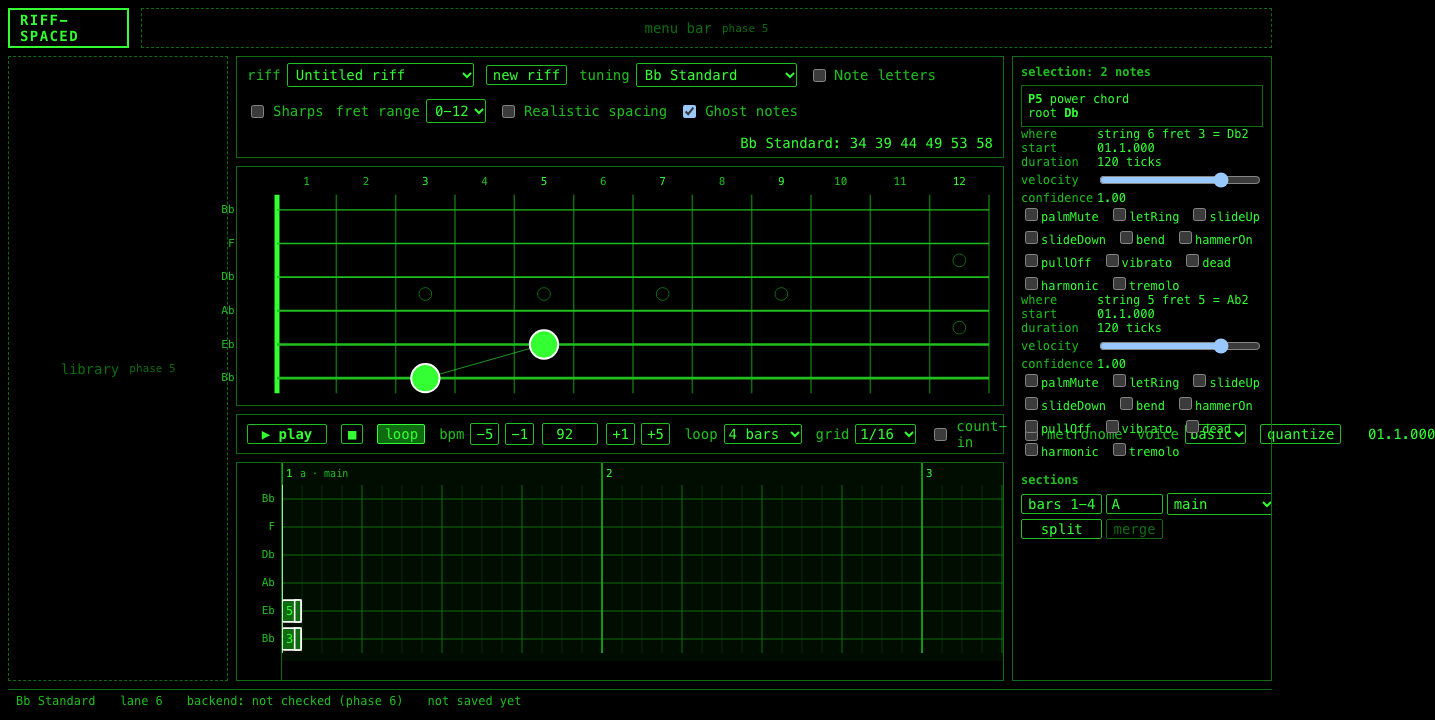
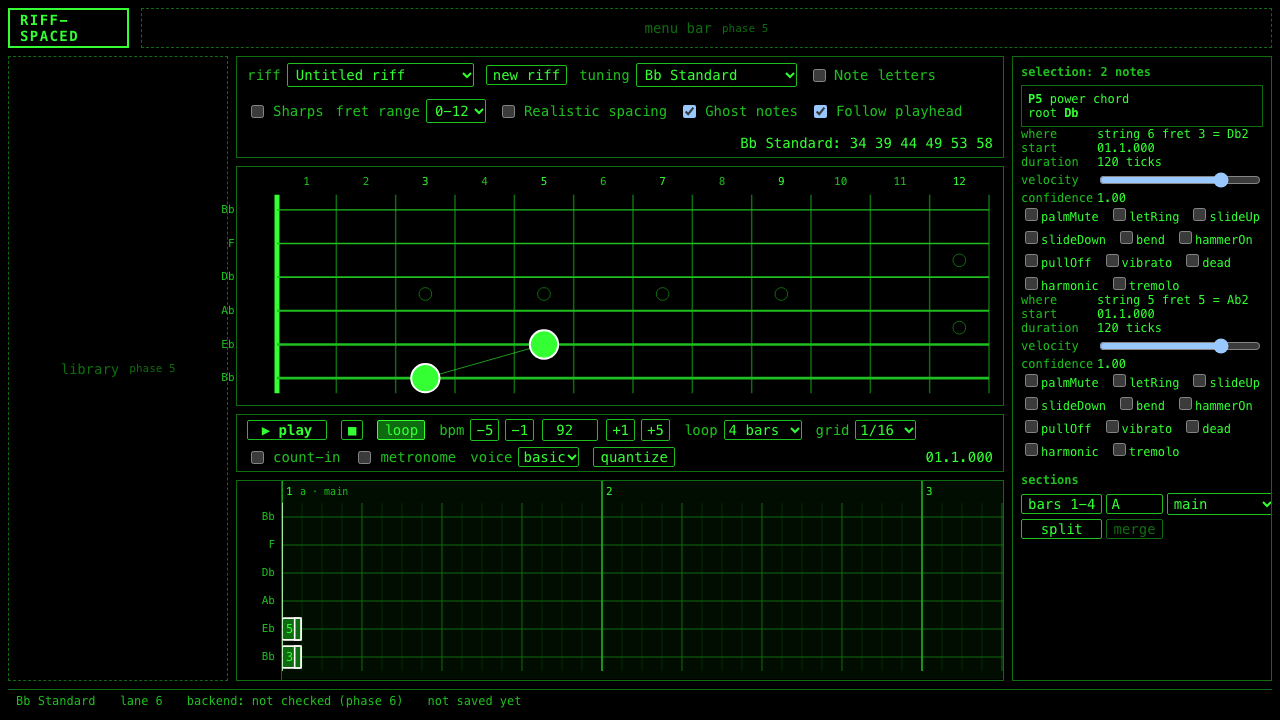
feat(playback): sync fretboard highlighting and tab playhead to the audio clock
WHY: Hearing a riff is half of it; seeing which dot is sounding, in time, is how the owner reads his own playing. The visuals must follow the audio clock, not a timer, or they drift.

WHAT:
- Shell: while playing the fretboard shows the notes sounding at the playback position (ghosts for the rest of the bar), and returns to the edit cursor on stop; the engine's highlightIds flash the sounding dots and their chord connectors
- tab/playheadRef.ts: follow mode keeps the playhead inside the middle 60 percent of the scrolling lanes; TabLanes registers its scroller and follows only while playing so editing never fights the user's scroll; View toggle "Follow playhead" (default on) in the dev toolbar
- Status bar: `sync ±N ms`, the max gap between scheduled audio time and the frame that drew it over the last second; dev builds log when it exceeds 25 ms
- Transport wraps instead of overflowing its column
- hooks/keyboard.ts: checkboxes, buttons, ranges and selects are no longer "typing targets", so Space on a focused checkbox still plays (text-like inputs still swallow shortcuts)
- main.tsx exposes window.riffspaced (store and audio state) for the e2e suite
- e2e/playback.spec.ts: play, AudioContext.state is running, a sounding dot and tab note appear, the playhead x advances, the readout moves, screenshot docs/screenshots/phase-04/playing.png; stop resets playhead and readout; count-in shows in the readout; BPM change during playback leaves the console clean
[…]

diff --git a/frontend/src/app/Shell.tsx b/frontend/src/app/Shell.tsx
@@ -37,16 +37,22 @@ export function Shell() {
   const removeNotes = useStore((s) => s.removeNotes);
   const lastSavedAt = useStore((s) => s.lastSavedAt);
   const storageWarning = useStore((s) => s.storageWarning);
+  const isPlaying = useStore((s) => s.isPlaying);
+  const positionTick = useStore((s) => s.positionTick);
+  const syncJitterMs = useStore((s) => s.syncJitterMs);
   useKeyboard();
 
-  // The fretboard shows what sounds at the edit cursor, with the rest of the bar as ghosts.
+  // While editing the fretboard shows what sounds at the edit cursor (rest of the bar as
+  // ghosts); while playing it follows the playback position and the engine flashes the
+  // sounding notes through highlightIds.
+  const viewTick = isPlaying ? positionTick : editCursorTick;
   const { shown, dimmedIds } = useMemo(() => {
-    const atCursor = notesSoundingAt(riff, editCursorTick);
-    if (!ghostNotes) return { shown: atCursor, dimmedIds: [] as string[] };
-    const ids = new Set(atCursor.map((n) => n.id));
-    const ghosts = notesInBarOf(riff, editCursorTick).filter((n) => !ids.has(n.id));
-    return { shown: [...atCursor, ...ghosts], dimmedIds: ghosts.map((n) => n.id) };
-  }, [riff, editCursorTick, ghostNotes]);
+    const atTick = notesSoundingAt(riff, viewTick);
+    if (!ghostNotes) return { shown: atTick, dimmedIds: [] as string[] };
+    const ids = new Set(atTick.map((n) => n.id));
+    const ghosts = notesInBarOf(riff, viewTick).filter((n) => !ids.has(n.id));
+    return { shown: [...atTick, ...ghosts], dimmedIds: ghosts.map((n) => n.id) };
+  }, [riff, viewTick, ghostNotes]);
 
   return (
     <div className="shell" data-testid="shell">
@@ -99,6 +105,14 @@ export function Shell() {
       <footer className="shell__status" data-testid="status-bar">
         <span>{riff.tuning.name}</span>
         <span data-testid="status-lane">lane {activeLane}</span>
+        {syncJitterMs !== null ? (
+          <span
+            data-testid="status-sync"
+            title="max gap between scheduled audio time and the frame that drew it, last second"
+          >
+            sync ±{syncJitterMs} ms
+          </span>
+        ) : null}
         {pendingFret !== null ? (
           <span data-testid="status-pending">fret: {pendingFret}_</span>
         ) : null}

diff --git a/frontend/e2e/playback.spec.ts b/frontend/e2e/playback.spec.ts
@@ -1,0 +1,44 @@
+import { expect, test } from '@playwright/test';
+import { screenshotPath, watchConsole } from './helpers';
+
+test('play flashes the fretboard, moves the playhead, and stop resets it', async ({ page }) => {
+  const console = watchConsole(page);
+  await page.goto('/');
+  await page.getByLabel('riff').selectOption({ label: 'Walkdown Turnaround' });
+  const playhead = page.getByTestId('playhead');
+  const startX = Number(await playhead.getAttribute('x1'));
+
+  await page.getByRole('button', { name: 'play' }).click();
+  await page.waitForTimeout(600);
+  await expect(page.getByRole('button', { name: 'stop', exact: true })).toBeVisible();
+  const audioState = await page.evaluate(() => window.riffspaced?.audioState());
+  expect(audioState).toBe('running');
+  await expect(page.locator('.fb-note--sounding').first()).toBeVisible();
+  await expect(page.locator('.tab-note--sounding').first()).toBeVisible();
+  const movedX = Number(await playhead.getAttribute('x1'));
+  expect(movedX).toBeGreaterThan(startX);
+  await expect(page.getByTestId('position')).not.toHaveText('01.1.000');
+  await page.screenshot({ path: screenshotPath('phase-04', 'playing'), fullPage: true });
+
+  await page.keyboard.press('Space');
+  await expect(page.getByRole('button', { name: 'play' })).toBeVisible();
+  await expect(page.locator('.fb-note--sounding')).toHaveCount(0);
+  expect(Number(await playhead.getAttribute('x1'))).toBe(startX);
+  await expect(page.getByTestId('position')).toHaveText('01.1.000');
+
+  // Count-in shows in the readout before the loop starts.
+  await page.getByLabel('count-in').check();
+  await page.getByLabel('metronome').check();
+  await page.keyboard.press('Space');
+  await expect(page.getByTestId('position')).toHaveText('count-in');
+  await page.keyboard.press('Space');
+
+  // Tempo changes during playback do not throw.
+  await page.keyboard.press('Space');
+  await page.getByRole('spinbutton', { name: 'bpm' }).fill('140');
+  await page.waitForTimeout(300);
+  await expect(page.getByTestId('status-sync')).toContainText('sync');
+  await page.keyboard.press('Space');
+
+  expect(console.errors).toEqual([]);
+});

diff --git a/frontend/src/tab/TabLanes.tsx b/frontend/src/tab/TabLanes.tsx
@@ -10,6 +10,7 @@ import { Playhead } from './Playhead';
 import { Ruler } from './Ruler';
 import { TabNote } from './TabNote';
 import { GUTTER_WIDTH, LANE_HEIGHT, laneY, tabHeight, tabWidth, tickToX } from './geometry';
+import { playhead } from './playheadRef';
 import { useTabPointer } from './useTabPointer';
 import './tab.css';
 
@@ -30,6 +31,8 @@ export function TabLanes() {
   const select = useStore((s) => s.select);
   const removeNotes = useStore((s) => s.removeNotes);
   const pointer = useTabPointer();
+  const followPlayhead = useStore((s) => s.followPlayhead);
+  const isPlaying = useStore((s) => s.isPlaying);
 
   const stringCount = riff.tuning.pitches.length;
   const height = tabHeight(stringCount);
@@ -40,6 +43,14 @@ export function TabLanes() {
   // Ctrl/Cmd + wheel zooms, plain wheel scrolls horizontally. A native listener is needed
   // because React's onWheel is passive and cannot preventDefault the browser zoom.
   const scrollRef = useRef<HTMLDivElement>(null);
+  useEffect(() => {
+    playhead.setScroller(scrollRef.current);
+    return () => playhead.setScroller(null);
+  }, []);
+  useEffect(() => {
+    // Follow only while playing, so editing never fights the user's own scrolling.
+    playhead.setFollow(followPlayhead && isPlaying);
+  }, [followPlayhead, isPlaying]);
   useEffect(() => {
     const el = scrollRef.current;
     if (!el) return;

diff --git a/frontend/src/tab/playheadRef.ts b/frontend/src/tab/playheadRef.ts
@@ -9,6 +9,19 @@ type Target = { line: SVGLineElement; pxPerBar: number };
 
 let target: Target | null = null;
 let lastTick = 0;
+let scroller: HTMLElement | null = null;
+let follow = true;
+
+/** Keep the playhead inside the middle 60 percent of the scroll viewport (SPEC 5.4). */
+function followIfNeeded(x: number): void {
+  if (!follow || !scroller) return;
+  const width = scroller.clientWidth;
+  if (width <= 0) return;
+  const left = scroller.scrollLeft;
+  if (x < left + width * 0.2 || x > left + width * 0.8) {
+    scroller.scrollLeft = Math.max(0, x - width * 0.5);
+  }
+}
 
 export const playhead = {
   register(line: SVGLineElement | null, pxPerBar: number): void {
@@ -21,6 +34,14 @@ export const playhead = {
     const x = tickToX(tick, target.pxPerBar);
     target.line.setAttribute('x1', String(x));
     target.line.setAttribute('x2', String(x));
+    followIfNeeded(x);
+  },
+  /** The horizontally scrolling container the lanes live in, for follow mode. */
+  setScroller(el: HTMLElement | null): void {
+    scroller = el;
+  },
+  setFollow(on: boolean): void {
+    follow = on;
   },
   currentTick(): number {
     return lastTick;

diff --git a/frontend/src/tab/playheadRef.test.ts b/frontend/src/tab/playheadRef.test.ts
@@ -1,0 +1,24 @@
+import { describe, expect, it } from 'vitest';
+import { playhead } from './playheadRef';
+
+describe('playhead follow', () => {
+  it('scrolls the container only when the playhead leaves the middle 60 percent', () => {
+    const line = document.createElementNS('http://www.w3.org/2000/svg', 'line');
+    const scroller = document.createElement('div');
+    Object.defineProperty(scroller, 'clientWidth', { value: 1000 });
+    scroller.scrollLeft = 0;
+    playhead.register(line, 320);
+    playhead.setScroller(scroller);
+    playhead.setFollow(true);
+    playhead.setTick(1920); // x = 320, inside [200, 800]
+    expect(scroller.scrollLeft).toBe(0);
+    playhead.setTick(1920 * 3); // x = 960, past 800: recenter on 460
+    expect(scroller.scrollLeft).toBe(460);
+    playhead.setFollow(false);
+    playhead.setTick(1920 * 10);
+    expect(scroller.scrollLeft).toBe(460);
+    expect(line.getAttribute('x1')).toBe(String(((1920 * 10) / 1920) * 320));
+    playhead.setScroller(null);
+    playhead.register(null, 320);
+  });
+});

diff --git a/frontend/src/hooks/keyboard.ts b/frontend/src/hooks/keyboard.ts
@@ -195,11 +195,26 @@ export function handleKey(e: KeyInput, deps: KeyboardDeps): boolean {
   }
 }
 
-/** Shortcuts must not fire while typing in a form control. */
+const TEXT_INPUT_TYPES = new Set([
+  'text',
+  'number',
+  'search',
+  'email',
+  'url',
+  'password',
+  'tel',
+  '',
+]);
+
+/**
+ * Shortcuts must not fire while typing in a form control. Checkboxes, buttons, ranges and
+ * selects are not typing targets: Space on a focused checkbox should still play.
+ */
 export function isTypingTarget(target: EventTarget | null): boolean {
   if (!(target instanceof HTMLElement)) return false;
+  if (target.isContentEditable === true) return true;
   const tag = target.tagName;
-  return (
-    tag === 'INPUT' || tag === 'TEXTAREA' || tag === 'SELECT' || target.isContentEditable === true
-  );
+  if (tag === 'TEXTAREA') return true;
+  if (tag === 'INPUT') return TEXT_INPUT_TYPES.has((target as HTMLInputElement).type.toLowerCase());
+  return false;
 }

diff --git a/frontend/src/dev/DevToolbar.tsx b/frontend/src/dev/DevToolbar.tsx
@@ -24,6 +24,8 @@ export function DevToolbar() {
   const setRealistic = useStore((s) => s.setRealisticSpacing);
   const ghostNotes = useStore((s) => s.ghostNotes);
   const setGhostNotes = useStore((s) => s.setGhostNotes);
+  const followPlayhead = useStore((s) => s.followPlayhead);
+  const setFollowPlayhead = useStore((s) => s.setFollowPlayhead);
 
   const rangeLabel = `${fretRange.from}-${fretRange.to}`;
   const presetName =
@@ -130,6 +132,15 @@ export function DevToolbar() {
           onChange={(e) => setGhostNotes(e.target.checked)}
         />
         Ghost notes
+      </label>
+
+      <label>
+        <input
+          type="checkbox"
+          checked={followPlayhead}
+          onChange={(e) => setFollowPlayhead(e.target.checked)}
+        />
+        Follow playhead
       </label>
 
       <span className="dev-toolbar__status" data-testid="tuning-status">

diff --git a/frontend/src/main.tsx b/frontend/src/main.tsx
@@ -4,6 +4,8 @@ import { App } from './App';
 import { bootstrapStore } from './store';
 import { startAutosave } from './store/persist';
 import { startEngine } from './audio/engine';
+import { getAudioContext, hasAudioContext } from './audio/context';
+import { useStore } from './store';
 import './theme.css';
 
 const rootElement = document.getElementById('root');
@@ -16,6 +18,17 @@ if (!rootElement) {
 bootstrapStore(window.localStorage);
 startAutosave();
 startEngine();
+
+// A small hook for the Playwright suite: read the store and the audio state from tests.
+declare global {
+  interface Window {
+    riffspaced?: { store: typeof useStore; audioState: () => string };
+  }
+}
+window.riffspaced = {
+  store: useStore,
+  audioState: () => (hasAudioContext() ? getAudioContext().state : 'none'),
+};
 
 createRoot(rootElement).render(
   <StrictMode>

diff --git a/frontend/src/hooks/keyboard.test.ts b/frontend/src/hooks/keyboard.test.ts
@@ -131,6 +131,14 @@ describe('keyboard', () => {
   it('knows which targets are typing targets and lists the shortcut table', () => {
     const input = document.createElement('input');
     expect(isTypingTarget(input)).toBe(true);
+    const checkbox = document.createElement('input');
+    checkbox.type = 'checkbox';
+    expect(isTypingTarget(checkbox)).toBe(false);
+    const number = document.createElement('input');
+    number.type = 'number';
+    expect(isTypingTarget(number)).toBe(true);
+    expect(isTypingTarget(document.createElement('select'))).toBe(false);
+    expect(isTypingTarget(document.createElement('textarea'))).toBe(true);
     expect(isTypingTarget(document.createElement('div'))).toBe(false);
     expect(isTypingTarget(null)).toBe(false);
     expect(SHORTCUTS.some((s) => s.keys === '0-9')).toBe(true);

diff --git a/frontend/src/store/viewSlice.ts b/frontend/src/store/viewSlice.ts
@@ -23,6 +23,9 @@ export type ViewSlice = {
   splitView: boolean;
   /** Dim all other notes of the current bar behind the ones at the cursor (Phase 3). */
   ghostNotes: boolean;
+  /** Auto-scroll the tab lanes to keep the playhead within the middle of the view. */
+  followPlayhead: boolean;
+  setFollowPlayhead: (on: boolean) => void;
   panels: { library: boolean; inspector: boolean };
   /** Editor grid resolution: note entry duration and snapping (SPEC 3.4). */
   grid: GridName;
@@ -46,6 +49,8 @@ export const createViewSlice: StateCreator<AppState, [], [], ViewSlice> = (set) 
   realisticSpacing: false,
   splitView: false,
   ghostNotes: true,
+  followPlayhead: true,
+  setFollowPlayhead: (followPlayhead) => set({ followPlayhead }),
   panels: { library: true, inspector: true },
   grid: '1/16',
   pxPerBar: 320,

diff --git a/frontend/src/transport/transport.css b/frontend/src/transport/transport.css
@@ -1,9 +1,10 @@
 .transport {
   display: flex;
+  flex-wrap: wrap;
   align-items: center;
-  gap: 14px;
-  height: 100%;
-  padding: 0 10px;
+  gap: 6px 14px;
+  min-height: 40px;
+  padding: 4px 10px;
   border: 1px solid var(--color-dim);
 }
 
@@ -12,6 +13,7 @@
   align-items: center;
   gap: 6px;
   color: var(--color-mid);
+  white-space: nowrap;
 }
 
 .transport__placeholder {

diff --git a/frontend/src/app/shell.css b/frontend/src/app/shell.css
@@ -60,7 +60,7 @@
 }
 
 .shell__transport {
-  height: 40px;
+  flex: 0 0 auto;
 }
 
 .shell__tab {
